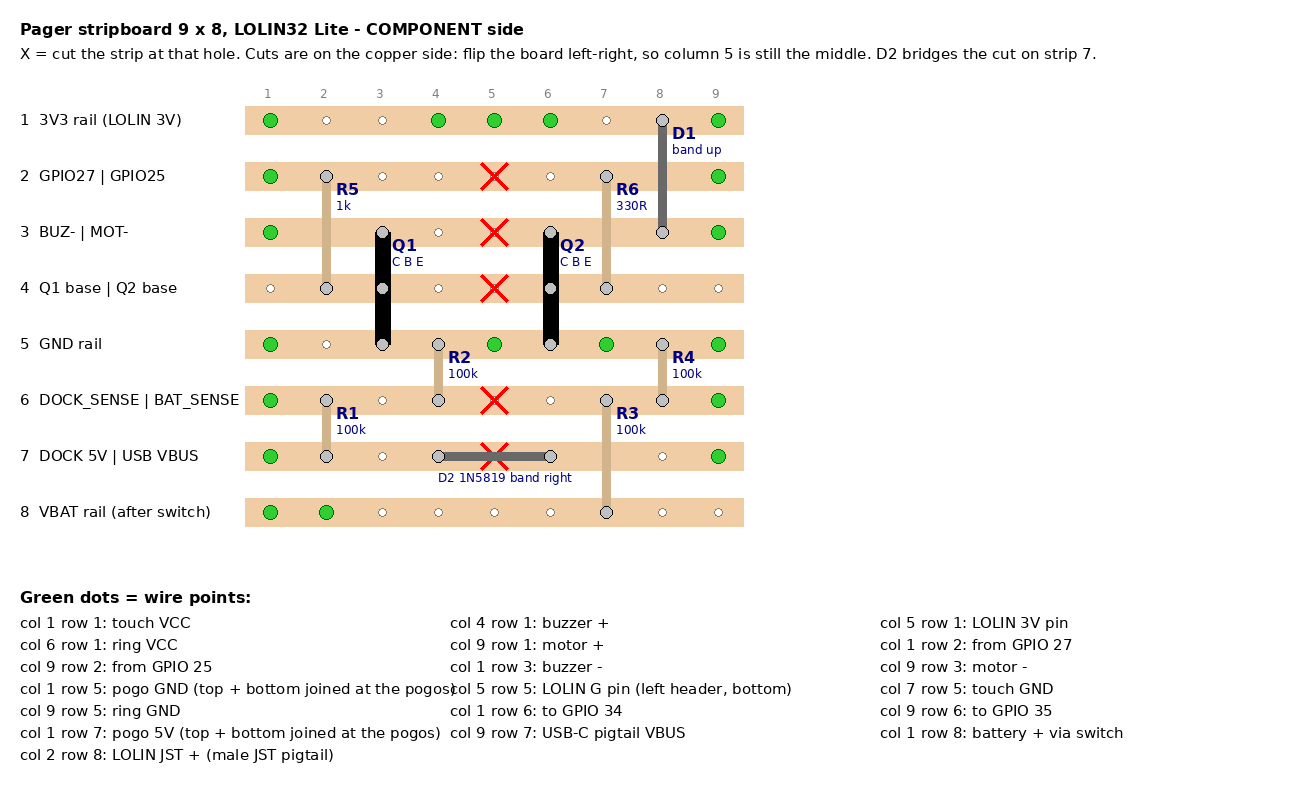
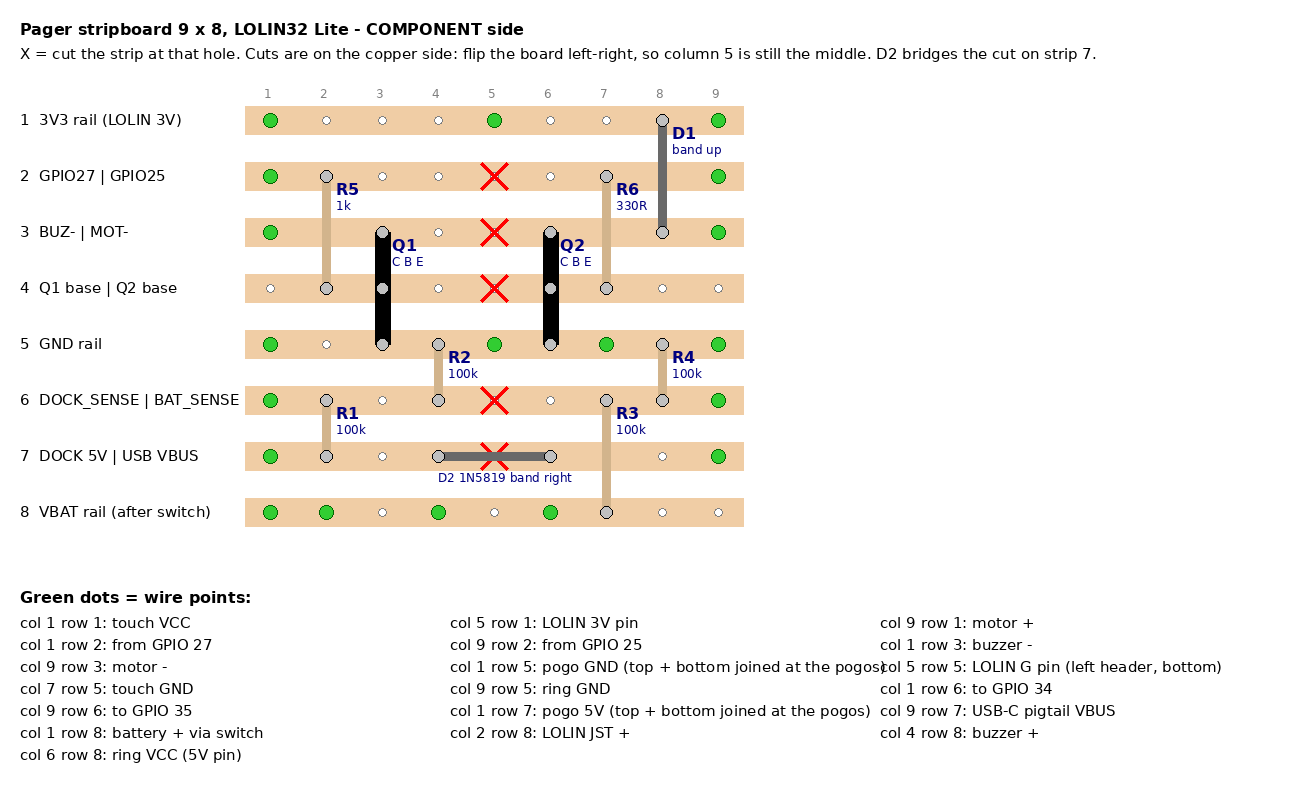
LOLIN build: ring and buzzer + on the switched VBAT rail (motor stays on 3V3); wiring doc updated
Claude-Session: https://claude.ai/code/session_016rvrxpLKBnY1fDA5ftg5XD

diff --git a/proto/stripboard.py b/proto/stripboard.py
@@ -23,13 +23,13 @@ PARTS = [
 ]
 # off-board wires: (col,row,text)
 WIRES = [
-    (1, 1, "touch VCC"), (4, 1, "buzzer +"), (5, 1, "LOLIN 3V pin"), (6, 1, "ring VCC"), (9, 1, "motor +"),
+    (1, 1, "touch VCC"), (5, 1, "LOLIN 3V pin"), (9, 1, "motor +"),
     (1, 2, "from GPIO 27"), (9, 2, "from GPIO 25"),
     (1, 3, "buzzer -"), (9, 3, "motor -"),
     (1, 5, "pogo GND (top + bottom joined at the pogos)"), (5, 5, "LOLIN G pin (left header, bottom)"), (7, 5, "touch GND"), (9, 5, "ring GND"),
     (1, 6, "to GPIO 34"), (9, 6, "to GPIO 35"),
     (1, 7, "pogo 5V (top + bottom joined at the pogos)"), (9, 7, "USB-C pigtail VBUS"),
-    (1, 8, "battery + via switch"), (2, 8, "LOLIN JST + (male JST pigtail)"),
+    (1, 8, "battery + via switch"), (2, 8, "LOLIN JST +"), (4, 8, "buzzer +"), (6, 8, "ring VCC (5V pin)"),
 ]
 P, X0, Y0 = 56, 270, 120
 img = Image.new("RGB", (max(X0 + COLS * P + 40, 1300), Y0 + ROWS * P + 230), "white")

diff --git a/docs/pager_wiring.md b/docs/pager_wiring.md
@@ -8,23 +8,26 @@ bottom pogo 5V --+------------------------------> top pogo 5V   (pass-through to
                  +- 1N5819 --> USB-C plug pigtail VBUS --> LOLIN32 USB-C  (onboard charger -> battery)
 bottom pogo GND -+-------------------------------> top pogo GND, pigtail GND
 
-battery + --> power switch --> LOLIN32 JST (battery in)
-LOLIN32 3V3 --> LED ring 5V/VCC pin, buzzer (+), vibration motor (+)
+battery + --> power switch --> VBAT rail --> LOLIN32 JST +, battery sense divider, LED ring 5V/VCC pin, buzzer (+)
+battery - ------------------------------------> LOLIN32 JST - (stripboard GND rail joins at the LOLIN G pin)
+LOLIN32 3V3 --> vibration motor (+), touch module VCC
                 buzzer and motor switched on their GND side by NPNs (buzzer GPIO 27, motor GPIO 25), diode across the motor
-LED ring DI <-- 330R <-- GPIO 26          (3.3 V supply and 3.3 V data: no level shifter needed)
+LED ring DI <-- 330R <-- GPIO 26          (3.3 V data on a 3.0-4.2 V supply: usually works; not tested here)
 touch module OUT --> GPIO 4
 ```
-- No boost board and no P-MOSFET: the LED ring and the buzzer run from the
-  LOLIN32's 3.3 V regulator, like the motor.
-- **Regulator load:** the ESP32, ring, buzzer and motor all share the 3V3
-  regulator (believed to be an ME6211, ~500 mA; not confirmed on this
-  board). Keep the ring brightness capped (`MAX_BRIGHTNESS`), and avoid
-  driving the motor, buzzer and a bright ring at the same moment if the
-  ESP32 resets. A 470 uF capacitor across 3V3 / GND near the ring helps.
-- **Ring at 3.3 V:** red is fine; blue, green and white can look dimmer at
-  high brightness than they would at 5 V. Check the colours you use.
-- **Buzzer:** the TDB05 is a 5 V part; at 3.3 V it will be quieter. Check it
-  is loud enough; if not, a 3 V buzzer is the fix.
+- No boost board and no P-MOSFET. The LED ring and the buzzer run from the
+  switched battery (VBAT rail, 3.0-4.2 V); the motor runs from the LOLIN32's 3.3 V.
+  Stripboard: `proto/stripboard.png`, LOLIN wires: `proto/lolin_wiring.png`.
+- **Regulator load:** only the ESP32, the motor and the touch module are on the
+  3V3 regulator now; the ring and buzzer draw from the battery directly.
+- **Motor on 3.3 V:** `VIBE_STRENGTH 230` in the firmware assumes 3.3 V. If the
+  motor is moved to VBAT, lower it to about 180.
+- **Ring on VBAT:** the data line is 3.3 V and the ring supply up to 4.2 V; this
+  usually works with WS2812 rings but has not been tested on this build.
+- **Buzzer on VBAT:** the TDB05 is a 5 V part, so it is quieter on 3.0-4.2 V
+  than at 5 V, but louder than it was on 3.3 V.
+- The power switch is between the battery and the VBAT rail, so a
+  switched-off pager does not charge on the dock.
 - Top and bottom pogo connectors are both at 6 o'clock, directly above each
   other, so the pass-through is two short wires.
 - The base's old touch pocket at 4 o'clock holds the GND / 3.3 V / 5 V rails.
